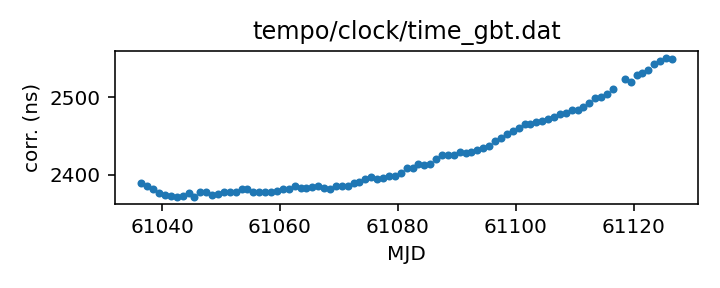
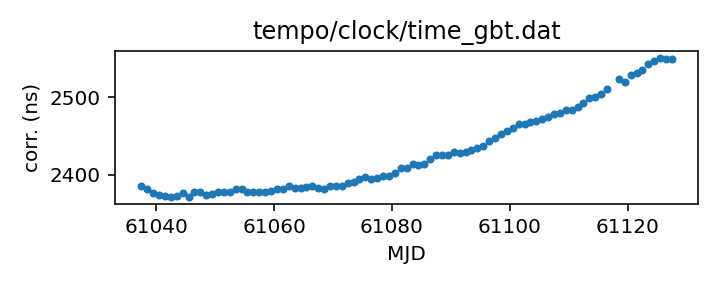
Routine gh-pages update from Github action Sun Mar 29 20:58:00 UTC 2026

diff --git a/status.md b/status.md
@@ -13,18 +13,18 @@ name of each clock file links to a page with more details.
 
 | Name | File | Corrections start | Corrections end | Last check date | Last check result 
 |:--- |:--- | --- | --- | --- |:--- 
-| [GPS to UTC](T2runtime/clock/gps2utc.clk.html) | `T2runtime/clock/gps2utc.clk` | 1993-01-01 MJD 48988.0 | 2026-02-28 MJD 61099.0 | 2026-03-28 | Unchanged 
-| [GPS to UTC (Combined Clock)](T2runtime/clock/gps2utc_cc.clk.html) | `T2runtime/clock/gps2utc_cc.clk` | 1993-01-01 MJD 48988.0 | 2026-02-28 MJD 61099.0 | 2026-03-28 | Unchanged 
-| [GPS to UTC (Corrected)](T2runtime/clock/gps2utc_c0p.clk.html) | `T2runtime/clock/gps2utc_c0p.clk` | 2010-12-29 MJD 55559.0 | 2026-02-28 MJD 61099.0 | 2026-03-28 | Unchanged 
-| [GBT](tempo/clock/time_gbt.dat.html) | `tempo/clock/time_gbt.dat` | 2000-12-31 MJD 51909.5 | 2026-03-27 MJD 61126.5 | 2026-03-28 | Updated 
-| [GBT (TEMPO2 converted from TEMPO)](T2runtime/clock/gbt2gps.clk.html) | `T2runtime/clock/gbt2gps.clk` | 2000-12-31 MJD 51909.5 | 2024-05-18 MJD 60448.5 | 2026-03-28 | **Validation failed** 
+| [GPS to UTC](T2runtime/clock/gps2utc.clk.html) | `T2runtime/clock/gps2utc.clk` | 1993-01-01 MJD 48988.0 | 2026-02-28 MJD 61099.0 | 2026-03-29 | Unchanged 
+| [GPS to UTC (Combined Clock)](T2runtime/clock/gps2utc_cc.clk.html) | `T2runtime/clock/gps2utc_cc.clk` | 1993-01-01 MJD 48988.0 | 2026-02-28 MJD 61099.0 | 2026-03-29 | Unchanged 
+| [GPS to UTC (Corrected)](T2runtime/clock/gps2utc_c0p.clk.html) | `T2runtime/clock/gps2utc_c0p.clk` | 2010-12-29 MJD 55559.0 | 2026-02-28 MJD 61099.0 | 2026-03-29 | Unchanged 
+| [GBT](tempo/clock/time_gbt.dat.html) | `tempo/clock/time_gbt.dat` | 2000-12-31 MJD 51909.5 | 2026-03-28 MJD 61127.5 | 2026-03-29 | Updated 
+| [GBT (TEMPO2 converted from TEMPO)](T2runtime/clock/gbt2gps.clk.html) | `T2runtime/clock/gbt2gps.clk` | 2000-12-31 MJD 51909.5 | 2024-05-18 MJD 60448.5 | 2026-03-29 | **Validation failed** 
 | [Jodrell Bank](T2runtime/clock/jb2gps.clk.html) | `T2runtime/clock/jb2gps.clk` | 2006-10-13 MJD 54021.4 | 2025-11-28 MJD 61007.0 | 2026-03-23 | Unchanged 
 | [Jodrell Bank Roach](T2runtime/clock/jbroach2jb.clk.html) | `T2runtime/clock/jbroach2jb.clk` | 2006-10-13 MJD 54021.4 | 2018-03-20 MJD 58197.6 | 2026-03-27 | Unchanged 
 | [Jodrell Bank DFB](T2runtime/clock/jbdfb2jb.clk.html) | `T2runtime/clock/jbdfb2jb.clk` | 2006-10-13 MJD 54021.4 | 2021-02-22 MJD 59268.0 | 2026-03-27 | Unchanged 
 | [Meerkat (observatory)](T2runtime/clock/mk2utc_observatory.clk.html) | `T2runtime/clock/mk2utc_observatory.clk` | 2019-01-01 MJD 58484.0 | 2026-03-11 MJD 61111.0 | 2026-03-27 | Unchanged 
-| [Leap seconds](tempo/clock/leap.sec.html) | `tempo/clock/leap.sec` | 1972-07-01 MJD 41499.0 | 2017-01-01 MJD 57754.0 | 2026-03-28 | Unchanged 
-| [UT1 table](tempo/clock/ut1.dat.html) | `tempo/clock/ut1.dat` | 1973-01-02 MJD 41684.0 | 2027-04-03 MJD 61498.0 | 2026-03-28 | Unchanged 
-| [UT1 table](T2runtime/clock/ut1.dat.html) | `T2runtime/clock/ut1.dat` | 1973-01-02 MJD 41684.0 | 2027-04-03 MJD 61498.0 | 2026-03-28 | Unchanged 
+| [Leap seconds](tempo/clock/leap.sec.html) | `tempo/clock/leap.sec` | 1972-07-01 MJD 41499.0 | 2017-01-01 MJD 57754.0 | 2026-03-29 | Unchanged 
+| [UT1 table](tempo/clock/ut1.dat.html) | `tempo/clock/ut1.dat` | 1973-01-02 MJD 41684.0 | 2027-04-03 MJD 61498.0 | 2026-03-29 | Unchanged 
+| [UT1 table](T2runtime/clock/ut1.dat.html) | `T2runtime/clock/ut1.dat` | 1973-01-02 MJD 41684.0 | 2027-04-03 MJD 61498.0 | 2026-03-29 | Unchanged 
 
 
 

diff --git a/T2runtime/clock/gbt2gps.clk.md b/T2runtime/clock/gbt2gps.clk.md
@@ -25,12 +25,11 @@ If questions arise about the conversion, contact Anne Archibald
 | Clock file start | 2000-12-31 MJD 51909.5 |
 | Clock file end | 2024-05-18 MJD 60448.5 |
 | Update interval (days) | 1 |
-| Last update attempt | 2026-03-28 |
+| Last update attempt | 2026-03-29 |
 | Last update result | Validation failed |
 
 Log entries from the last few update attempts:
 ```
-2026-03-19 21:03:20.834 - Validation failed: New version of T2runtime/clock/gbt2gps.clk clock corrections differ from old version where they overlap in 11 places
 2026-03-20 20:57:25.518 - Validation failed: New version of T2runtime/clock/gbt2gps.clk clock corrections differ from old version where they overlap in 11 places
 2026-03-21 20:50:16.720 - Validation failed: New version of T2runtime/clock/gbt2gps.clk clock corrections differ from old version where they overlap in 11 places
 2026-03-22 20:51:40.393 - Validation failed: New version of T2runtime/clock/gbt2gps.clk clock corrections differ from old version where they overlap in 11 places
@@ -40,6 +39,7 @@ Log entries from the last few update attempts:
 2026-03-26 20:57:53.108 - Validation failed: New version of T2runtime/clock/gbt2gps.clk clock corrections differ from old version where they overlap in 11 places
 2026-03-27 21:04:27.949 - Validation failed: New version of T2runtime/clock/gbt2gps.clk clock corrections differ from old version where they overlap in 11 places
 2026-03-28 20:55:26.468 - Validation failed: New version of T2runtime/clock/gbt2gps.clk clock corrections differ from old version where they overlap in 11 places
+2026-03-29 20:57:33.826 - Validation failed: New version of T2runtime/clock/gbt2gps.clk clock corrections differ from old version where they overlap in 11 places
 ```
 [Full log](https://raw.githubusercontent.com/ipta/pulsar-clock-corrections/main/log/T2runtime/clock/gbt2gps.clk.log)
 

diff --git a/tempo/clock/time_gbt.dat.md b/tempo/clock/time_gbt.dat.md
@@ -36,14 +36,13 @@ If questions arise, contact Ryan S. Lynch <rlynch@nrao.edu>.
 | Format | tempo |
 | Bogus last correction | False |
 | Clock file start | 2000-12-31 MJD 51909.5 |
-| Clock file end | 2026-03-27 MJD 61126.5 |
+| Clock file end | 2026-03-28 MJD 61127.5 |
 | Update interval (days) | 1 |
-| Last update attempt | 2026-03-28 |
+| Last update attempt | 2026-03-29 |
 | Last update result | Updated |
 
 Log entries from the last few update attempts:
 ```
-2026-03-19 21:03:20.759 - Updated
 2026-03-20 20:57:24.960 - Updated
 2026-03-21 20:50:16.645 - Updated
 2026-03-22 20:51:40.316 - Updated
@@ -53,6 +52,7 @@ Log entries from the last few update attempts:
 2026-03-26 20:57:53.032 - Updated
 2026-03-27 21:04:27.355 - Updated
 2026-03-28 20:55:26.391 - Updated
+2026-03-29 20:57:33.747 - Updated
 ```
 [Full log](https://raw.githubusercontent.com/ipta/pulsar-clock-corrections/main/log/tempo/clock/time_gbt.dat.log)
 

diff --git a/T2runtime/clock/gps2utc_c0p.clk.md b/T2runtime/clock/gps2utc_c0p.clk.md
@@ -30,12 +30,11 @@ about the BIPM's published corrections, contact <tai@bipm.org>.
 | Clock file start | 2010-12-29 MJD 55559.0 |
 | Clock file end | 2026-02-28 MJD 61099.0 |
 | Update interval (days) | 1 |
-| Last update attempt | 2026-03-28 |
+| Last update attempt | 2026-03-29 |
 | Last update result | Unchanged |
 
 Log entries from the last few update attempts:
 ```
-2026-03-19 21:03:20.030 - Unchanged
 2026-03-20 20:57:24.045 - Unchanged
 2026-03-21 20:50:15.343 - Unchanged
 2026-03-22 20:51:39.649 - Unchanged
@@ -45,6 +44,7 @@ Log entries from the last few update attempts:
 2026-03-26 20:57:52.168 - Unchanged
 2026-03-27 21:04:26.069 - Unchanged
 2026-03-28 20:55:25.840 - Unchanged
+2026-03-29 20:57:32.638 - Unchanged
 ```
 [Full log](https://raw.githubusercontent.com/ipta/pulsar-clock-corrections/main/log/T2runtime/clock/gps2utc_c0p.clk.log)
 

diff --git a/T2runtime/clock/gps2utc_cc.clk.md b/T2runtime/clock/gps2utc_cc.clk.md
@@ -29,12 +29,11 @@ about the BIPM's published corrections, contact <tai@bipm.org>.
 | Clock file start | 1993-01-01 MJD 48988.0 |
 | Clock file end | 2026-02-28 MJD 61099.0 |
 | Update interval (days) | 1 |
-| Last update attempt | 2026-03-28 |
+| Last update attempt | 2026-03-29 |
 | Last update result | Unchanged |
 
 Log entries from the last few update attempts:
 ```
-2026-03-19 21:03:20.022 - Unchanged
 2026-03-20 20:57:24.037 - Unchanged
 2026-03-21 20:50:15.335 - Unchanged
 2026-03-22 20:51:39.640 - Unchanged
@@ -44,6 +43,7 @@ Log entries from the last few update attempts:
 2026-03-26 20:57:52.160 - Unchanged
 2026-03-27 21:04:26.061 - Unchanged
 2026-03-28 20:55:25.832 - Unchanged
+2026-03-29 20:57:32.629 - Unchanged
 ```
 [Full log](https://raw.githubusercontent.com/ipta/pulsar-clock-corrections/main/log/T2runtime/clock/gps2utc_cc.clk.log)
 

diff --git a/T2runtime/clock/gps2utc.clk.md b/T2runtime/clock/gps2utc.clk.md
@@ -32,12 +32,11 @@ about the BIPM's published corrections, contact <tai@bipm.org>.
 | Clock file start | 1993-01-01 MJD 48988.0 |
 | Clock file end | 2026-02-28 MJD 61099.0 |
 | Update interval (days) | 1 |
-| Last update attempt | 2026-03-28 |
+| Last update attempt | 2026-03-29 |
 | Last update result | Unchanged |
 
 Log entries from the last few update attempts:
 ```
-2026-03-19 21:03:20.000 - Unchanged
 2026-03-20 20:57:24.015 - Unchanged
 2026-03-21 20:50:15.313 - Unchanged
 2026-03-22 20:51:39.617 - Unchanged
@@ -47,6 +46,7 @@ Log entries from the last few update attempts:
 2026-03-26 20:57:52.138 - Unchanged
 2026-03-27 21:04:26.039 - Unchanged
 2026-03-28 20:55:25.809 - Unchanged
+2026-03-29 20:57:32.606 - Unchanged
 ```
 [Full log](https://raw.githubusercontent.com/ipta/pulsar-clock-corrections/main/log/T2runtime/clock/gps2utc.clk.log)
 

diff --git a/tempo/clock/leap.sec.md b/tempo/clock/leap.sec.md
@@ -21,12 +21,11 @@ If there are any questions, contact Anne Archibald
 | File start | 1972-07-01 MJD 41499.0 |
 | File end | 2017-01-01 MJD 57754.0 |
 | Update interval (days) | 0 |
-| Last update attempt | 2026-03-28 |
+| Last update attempt | 2026-03-29 |
 | Last update result | Unchanged |
 
 Log entries from the last few update attempts:
 ```
-2026-03-19 21:03:20.858 - Unchanged
 2026-03-20 20:57:56.630 - Unchanged
 2026-03-21 20:50:16.746 - Unchanged
 2026-03-22 20:51:40.419 - Unchanged
@@ -36,5 +35,6 @@ Log entries from the last few update attempts:
 2026-03-26 20:57:53.134 - Unchanged
 2026-03-27 21:04:46.423 - Unchanged
 2026-03-28 20:55:26.494 - Unchanged
+2026-03-29 20:57:33.853 - Unchanged
 ```
 [Full log](https://raw.githubusercontent.com/ipta/pulsar-clock-corrections/main/log/tempo/clock/leap.sec.log)

diff --git a/T2runtime/clock/ut1.dat.md b/T2runtime/clock/ut1.dat.md
@@ -30,12 +30,11 @@ If there are any questions, contact Anne Archibald
 | File start | 1973-01-02 MJD 41684.0 |
 | File end | 2027-04-03 MJD 61498.0 |
 | Update interval (days) | 0 |
-| Last update attempt | 2026-03-28 |
+| Last update attempt | 2026-03-29 |
 | Last update result | Unchanged |
 
 Log entries from the last few update attempts:
 ```
-2026-03-19 21:03:29.834 - Updated
 2026-03-20 20:58:08.179 - Unchanged
 2026-03-21 20:50:29.617 - Unchanged
 2026-03-22 20:51:49.062 - Unchanged
@@ -45,5 +44,6 @@ Log entries from the last few update attempts:
 2026-03-26 20:58:05.346 - Updated
 2026-03-27 21:04:59.251 - Unchanged
 2026-03-28 20:55:33.567 - Unchanged
+2026-03-29 20:57:45.369 - Unchanged
 ```
 [Full log](https://raw.githubusercontent.com/ipta/pulsar-clock-corrections/main/log/T2runtime/clock/ut1.dat.log)

diff --git a/tempo/clock/ut1.dat.md b/tempo/clock/ut1.dat.md
@@ -30,12 +30,11 @@ If there are any questions, contact Anne Archibald
 | File start | 1973-01-02 MJD 41684.0 |
 | File end | 2027-04-03 MJD 61498.0 |
 | Update interval (days) | 0 |
-| Last update attempt | 2026-03-28 |
+| Last update attempt | 2026-03-29 |
 | Last update result | Unchanged |
 
 Log entries from the last few update attempts:
 ```
-2026-03-19 21:03:29.790 - Updated
 2026-03-20 20:58:08.132 - Unchanged
 2026-03-21 20:50:29.567 - Unchanged
 2026-03-22 20:51:49.012 - Unchanged
@@ -45,5 +44,6 @@ Log entries from the last few update attempts:
 2026-03-26 20:58:05.297 - Updated
 2026-03-27 21:04:59.202 - Unchanged
 2026-03-28 20:55:33.519 - Unchanged
+2026-03-29 20:57:45.319 - Unchanged
 ```
 [Full log](https://raw.githubusercontent.com/ipta/pulsar-clock-corrections/main/log/tempo/clock/ut1.dat.log)
